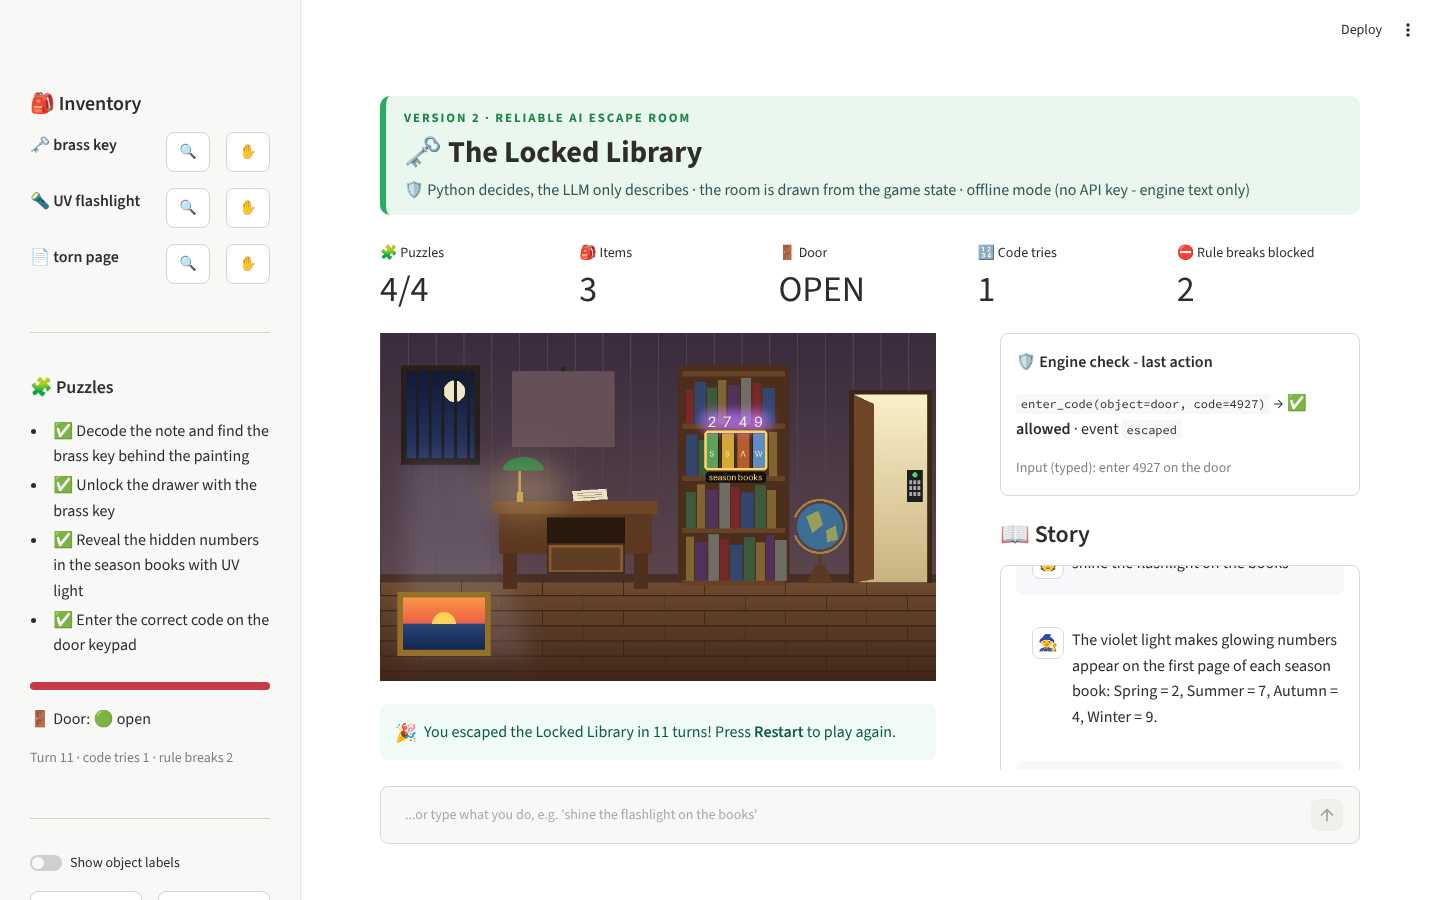
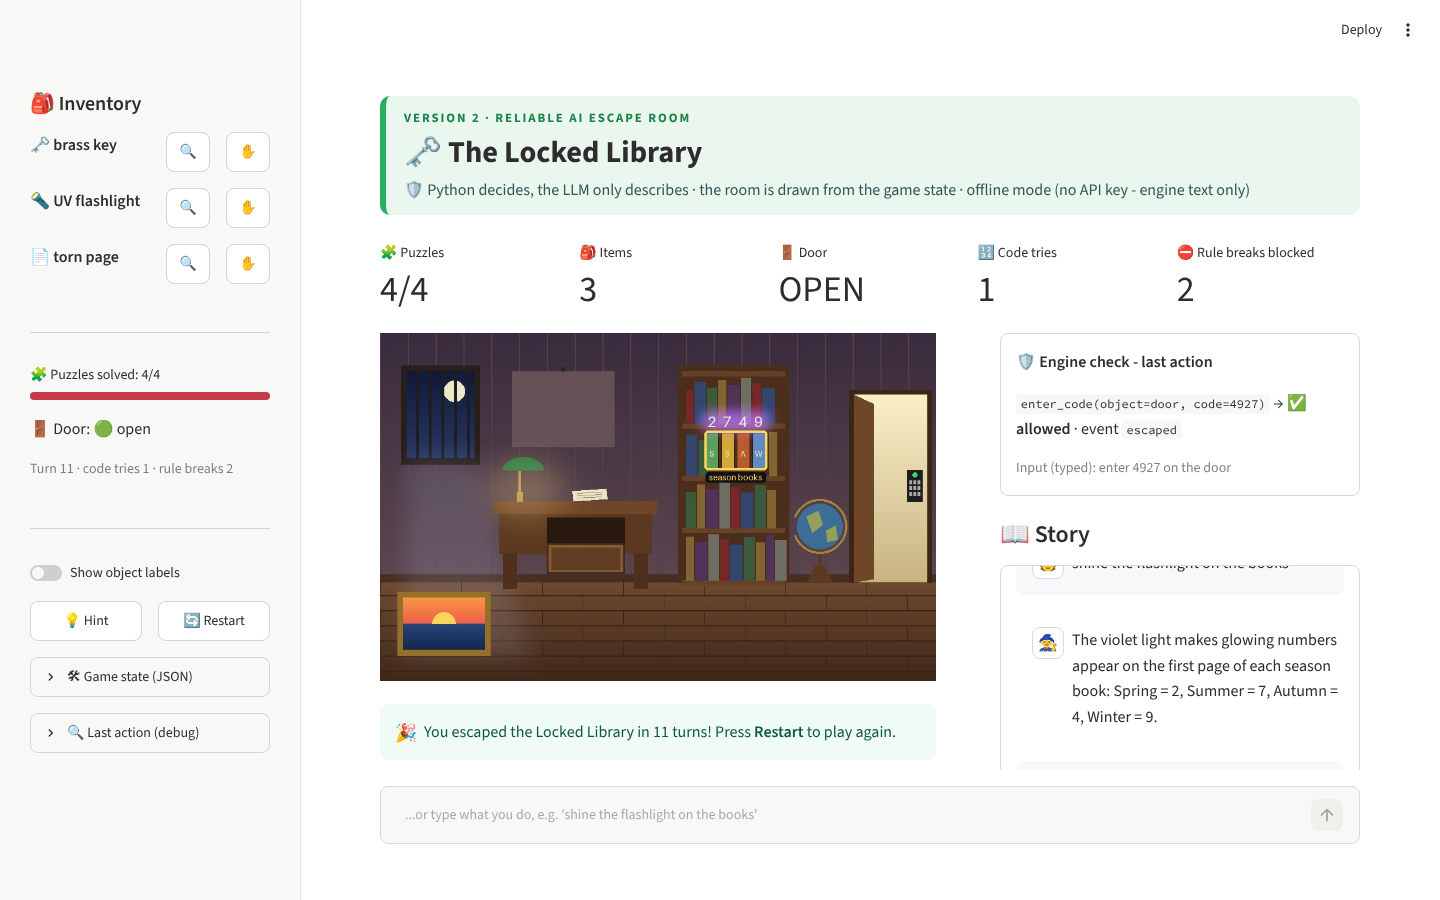
V2: remove the spoiler puzzle checklist, keep a puzzles-solved progress bar
Claude-Session: https://claude.ai/code/session_01JHE4nGXCUCeGcZParoQ2jR

Changed region(s): [[0.0, 0.4044, 0.1875, 0.8711], [0.0312, 0.9333, 0.125, 0.9644]]

diff --git a/v2/app.py b/v2/app.py
@@ -141,10 +141,8 @@ with st.sidebar:
         st.info(f"Holding the **{NAMES[st.session_state.held]}**. Click an object in the room to use it there.")
 
     st.divider()
-    st.subheader("🧩 Puzzles")
-    st.markdown("\n".join(f"- {'✅' if p in state['solved_puzzles'] else '⬜'} {d}"
-                          for p, d in CONFIG["puzzles"].items()))
-    st.progress(len(state["solved_puzzles"]) / len(CONFIG["puzzles"]))
+    st.progress(len(state["solved_puzzles"]) / len(CONFIG["puzzles"]),
+                text=f"🧩 Puzzles solved: {len(state['solved_puzzles'])}/{len(CONFIG['puzzles'])}")
     st.write("🚪 Door: " + ("🟢 open" if state["escaped"] else "🔴 locked"))
     st.caption(f"Turn {state['turn']} · code tries {state['code_attempts']} · rule breaks {state['rule_violations']}")
 

diff --git a/docs/report.md b/docs/report.md
@@ -107,8 +107,8 @@ storytelling**. Every message goes through a pipeline:
    object selects it, and context buttons (Examine, Take, Look behind, Open,
    Spin, a keypad, *Use held item here*) send structured actions straight to
    the engine; typed commands still go through the parser. The sidebar shows
-   the inventory (an item can be held, then used by clicking), a puzzle
-   checklist with a progress bar, the door status, turn and attempt
+   the inventory (an item can be held, then used by clicking), a
+   puzzles-solved progress bar (step names are hidden so nothing is spoiled), the door status, turn and attempt
    counters, the raw JSON state and a debug view of the last parsed action.
    The debug view was very useful for explaining and testing the system.
 
@@ -143,9 +143,9 @@ call. By design, V1 accepts TC8 (the guessed code), because its only rule is
   already have the key" as cheating, even when the player really had it.
   Claims about *items* are now passed to the engine, which checks the
   inventory. Only claims about *solved puzzles or opened locks* are refused.
-* **Streamlit state.** Disabled checkbox widgets kept their first value
-  across reruns, so solved puzzles never appeared ticked. They were replaced
-  with a markdown checklist.
+* **Spoilers in the UI.** A puzzle checklist in the sidebar named every step
+  ("find the brass key behind the painting"), which gave the solutions away.
+  It was replaced by a plain progress bar fed by the same game state.
 * **Gemini conversation format.** The model expects the conversation to start
   with a user turn, so V1 adds a "Start the game" message before the intro.
 

diff --git a/README.md b/README.md
@@ -127,7 +127,7 @@ did. This makes the core V1 weakness visible.
 | `v2/action_parser.py` | Free text to a structured `Action`. Rule-based first, with a Gemini JSON parser only as a fallback. Flags rule-breaking messages as `meta` |
 | `v2/narrator.py` | Sends the **engine result + public state** (no solutions) to Gemini for narration. The **output guard** rejects narration that claims a false escape or contains the code |
 | `room_renderer.py` | Draws the room with Pillow **from the game state** every turn (painting comes off the wall, drawer opens, items disappear, numbers glow, door opens) and maps clicks to object ids, ignoring hidden or collected objects |
-| `v2/app.py` | Streamlit UI: clickable room + context buttons (Examine, Take, Look behind, Open, Spin, keypad, *Use held item here*), story panel, typed commands, and a sidebar with inventory (hold items), puzzle checklist, door status, counters, raw JSON state and a debug view |
+| `v2/app.py` | Streamlit UI: clickable room + context buttons (Examine, Take, Look behind, Open, Spin, keypad, *Use held item here*), story panel, typed commands, and a sidebar with inventory (hold items), a puzzles-solved progress bar (no step names, so nothing is spoiled), door status, counters, raw JSON state and a debug view |
 
 Clicks and typed text end in the **same engine**: a button builds a
 structured `Action` directly (nothing to misunderstand), typed text goes
